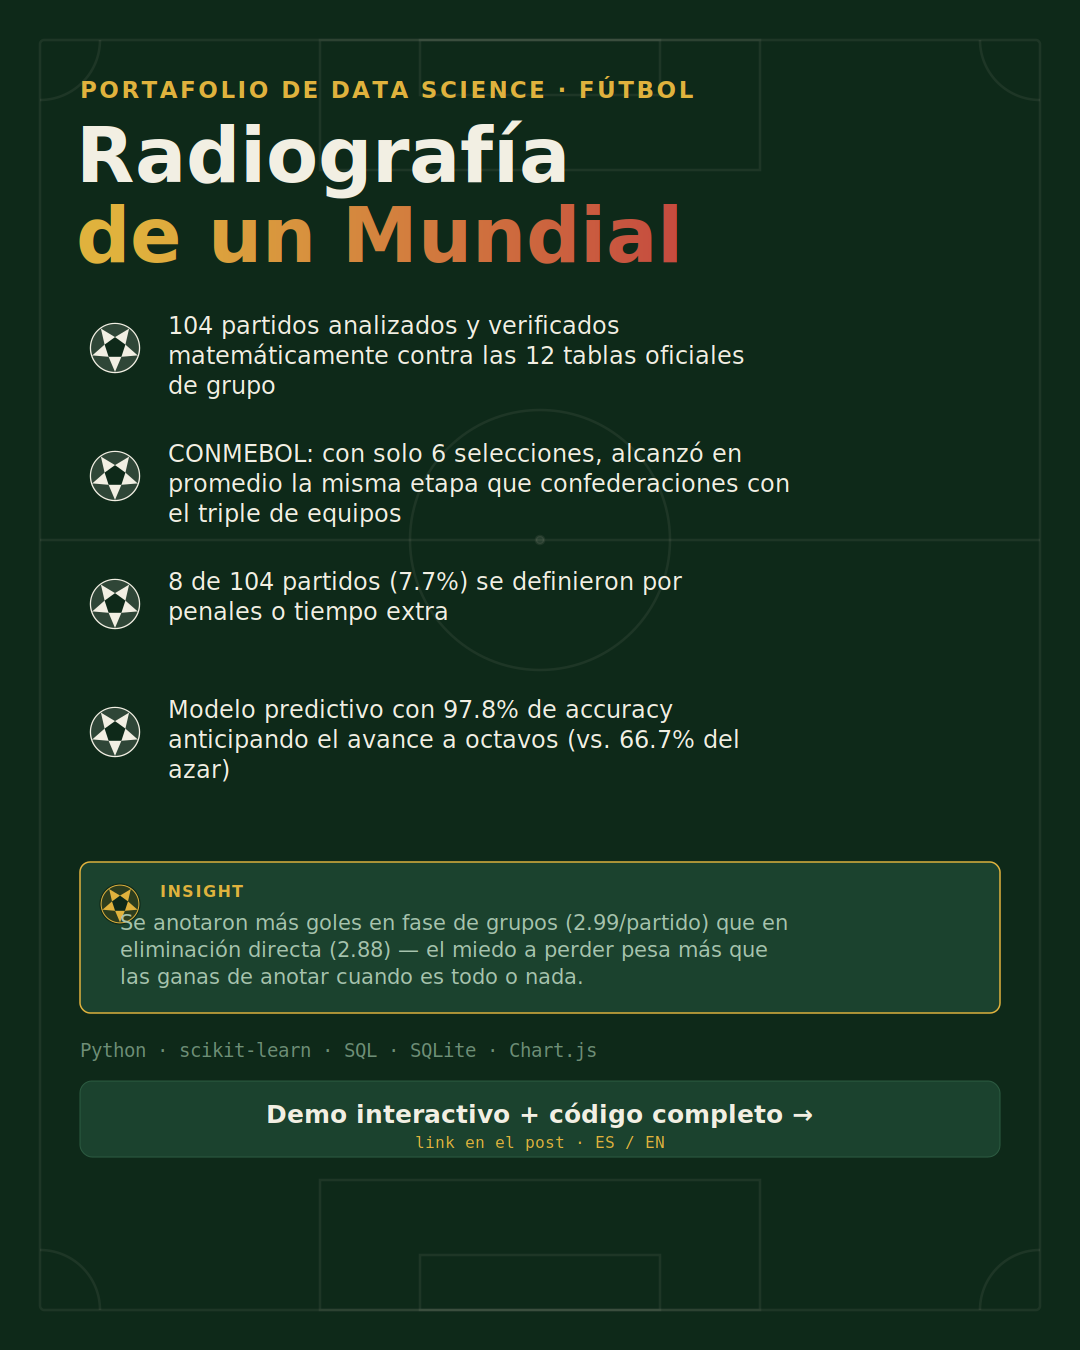
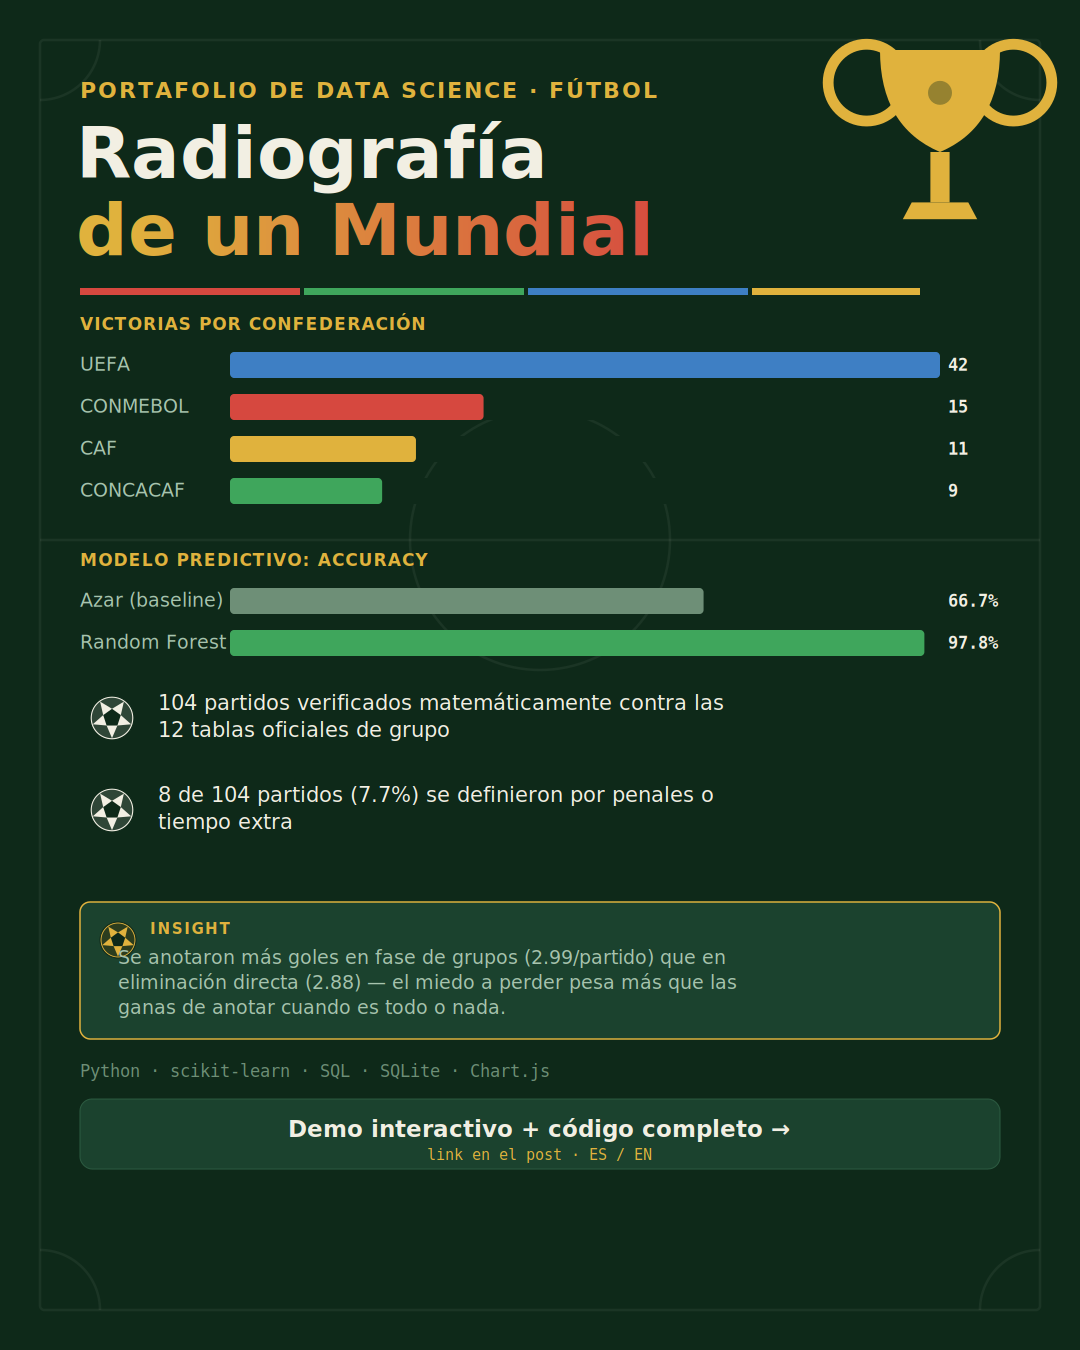
Rediseñar gráfico de LinkedIn v3: mini-gráficos de barras, ícono de trofeo genérico, paleta oficial de las 3 sedes (rojo Canadá/verde México/azul USA + dorado)

Changed region(s): [[0.0611, 0.0311, 0.9778, 0.8711], [0.8861, 0.4356, 0.9167, 0.4978]]

diff --git a/scripts/09_linkedin_card.py b/scripts/09_linkedin_card.py
@@ -1,8 +1,11 @@
 """
-Grafico de resumen para LinkedIn v2 — con tematica de futbol mas fuerte:
-- Fondo con lineas de cancha (circulo central, banda de medio campo, areas)
-- Balones de futbol (dibujados en SVG, no emoji) como vinetas de cada bullet
-- Bullets con los hallazgos reales del analisis + un insight destacado
+Grafico de resumen para LinkedIn v3:
+- Paleta oficial del torneo: rojo (Canada), verde (Mexico), azul (USA) + dorado (trofeo)
+  (verificado: la pelota oficial Adidas Trionda y el sistema de marca usan estos 3 colores
+  para representar a las 3 sedes; ver README para la fuente)
+- Icono de trofeo generico (no la copia exacta del trofeo FIFA, que es una marca registrada)
+- 2 mini-graficos de barras dibujados a mano en SVG (sin libreria de charts)
+- Bullets cortos + insight destacado
 """
 import cairosvg
 import os
@@ -10,9 +13,12 @@ import math
 import textwrap
 
 P = {
-    "bg": "#0e2919", "bg2": "#153524", "card": "#1b422e", "border": "#2c5b41",
+    "bg": "#0e2919", "card": "#153524", "card2": "#1b422e", "border": "#2c5b41",
     "text": "#F2EFE3", "text2": "#A7C4AE", "muted": "#6E8F77",
-    "gold": "#E0B23D", "red": "#C4453F", "blue": "#3E90B0", "violet": "#9B7FC4", "lime": "#9BC24A",
+    "gold": "#E0B23D",      # trofeo / emblema
+    "red": "#D6483F",       # Canada
+    "green": "#3FA65C",     # Mexico
+    "blue": "#3E7FC4",      # USA
 }
 
 def soccer_ball(cx, cy, r, fill="#F2EFE3", accent="#0e2919"):
@@ -22,37 +28,67 @@ def soccer_ball(cx, cy, r, fill="#F2EFE3", accent="#0e2919"):
         ang = math.radians(-90 + i * 72)
         pent_pts.append((cx + pent_r * math.cos(ang), cy + pent_r * math.sin(ang)))
     pent_path = "M" + " L".join(f"{x:.1f},{y:.1f}" for x, y in pent_pts) + " Z"
-
     wedges = ""
     for i in range(5):
         a1 = math.radians(-90 + i * 72 - 36)
         a2 = math.radians(-90 + i * 72 + 36)
         p1 = pent_pts[i]
-        outer1 = (cx + r * 0.92 * math.cos(a1), cy + r * 0.92 * math.sin(a1))
-        outer2 = (cx + r * 0.92 * math.cos(a2), cy + r * 0.92 * math.sin(a2))
-        wedges += (f'<path d="M{p1[0]:.1f},{p1[1]:.1f} L{outer1[0]:.1f},{outer1[1]:.1f} '
-                   f'A{r*0.92:.1f},{r*0.92:.1f} 0 0,1 {outer2[0]:.1f},{outer2[1]:.1f} Z" '
-                   f'fill="{accent}" opacity="0.85"/>')
+        o1 = (cx + r * 0.92 * math.cos(a1), cy + r * 0.92 * math.sin(a1))
+        o2 = (cx + r * 0.92 * math.cos(a2), cy + r * 0.92 * math.sin(a2))
+        wedges += (f'<path d="M{p1[0]:.1f},{p1[1]:.1f} L{o1[0]:.1f},{o1[1]:.1f} '
+                   f'A{r*0.92:.1f},{r*0.92:.1f} 0 0,1 {o2[0]:.1f},{o2[1]:.1f} Z" fill="{accent}" opacity="0.85"/>')
+    return (f'<circle cx="{cx}" cy="{cy}" r="{r}" fill="{fill}"/>{wedges}'
+            f'<path d="{pent_path}" fill="{accent}"/>'
+            f'<circle cx="{cx}" cy="{cy}" r="{r}" fill="none" stroke="{accent}" stroke-width="{r*0.06}"/>')
 
+def trophy_icon(cx, top_y, w, color):
+    """Trofeo generico (copa + asas + base) - no replica el diseno especifico
+    de la copa oficial FIFA, que esta protegido por marca registrada."""
+    bowl_w = w
+    bowl_h = w * 0.85
+    stem_w = w * 0.16
+    stem_h = w * 0.42
+    base_w = w * 0.62
+    base_h = w * 0.14
+    x0 = cx - bowl_w/2
+    y0 = top_y
+    handle_r = bowl_w * 0.32
     return f'''
-<circle cx="{cx}" cy="{cy}" r="{r}" fill="{fill}"/>
-{wedges}
-<path d="{pent_path}" fill="{accent}"/>
-<circle cx="{cx}" cy="{cy}" r="{r}" fill="none" stroke="{accent}" stroke-width="{r*0.06}"/>
+<g fill="{color}">
+  <path d="M {x0} {y0}
+           Q {x0} {y0+bowl_h*0.75} {cx} {y0+bowl_h}
+           Q {cx+bowl_w/2} {y0+bowl_h*0.75} {cx+bowl_w/2} {y0}
+           Z"/>
+  <circle cx="{x0-handle_r*0.35}" cy="{y0+bowl_h*0.32}" r="{handle_r}" fill="none" stroke="{color}" stroke-width="{w*0.09}"/>
+  <circle cx="{cx+bowl_w/2+handle_r*0.35}" cy="{y0+bowl_h*0.32}" r="{handle_r}" fill="none" stroke="{color}" stroke-width="{w*0.09}"/>
+  <rect x="{cx-stem_w/2}" y="{y0+bowl_h}" width="{stem_w}" height="{stem_h}"/>
+  <polygon points="{cx-base_w/2},{y0+bowl_h+stem_h+base_h} {cx+base_w/2},{y0+bowl_h+stem_h+base_h} {cx+base_w*0.38},{y0+bowl_h+stem_h} {cx-base_w*0.38},{y0+bowl_h+stem_h}"/>
+  <circle cx="{cx}" cy="{y0+bowl_h*0.42}" r="{bowl_w*0.1}" fill="{P['bg']}" opacity="0.35"/>
+</g>
 '''
+
+def hbar_chart(x, y, w, items, max_val, colors, value_fmt="{:.0f}"):
+    """items: [(label, value), ...] — grafico de barras horizontales dibujado a mano."""
+    bar_h = 26
+    gap = 16
+    svg = ""
+    for i, (label, val) in enumerate(items):
+        by = y + i * (bar_h + gap)
+        bar_w = max(6, (val / max_val) * (w - 210))
+        color = colors[i % len(colors)]
+        svg += f'<text x="{x}" y="{by+bar_h*0.72}" font-size="19" fill="{P["text2"]}">{label}</text>'
+        svg += f'<rect x="{x+150}" y="{by}" width="{w-150-60}" height="{bar_h}" rx="4" fill="{P["bg"]}"/>'
+        svg += f'<rect x="{x+150}" y="{by}" width="{bar_w}" height="{bar_h}" rx="4" fill="{color}"/>'
+        svg += f'<text x="{x+150+ (w-150-60) +8}" y="{by+bar_h*0.72}" font-family="DejaVu Sans Mono" font-size="17" font-weight="bold" fill="{P["text"]}">{value_fmt.format(val)}</text>'
+    return svg, y + len(items) * (bar_h + gap)
 
 def pitch_background(W, H):
     mid_y = H * 0.40
     return f'''
-<g stroke="rgba(242,239,227,0.07)" stroke-width="2.5" fill="none">
+<g stroke="rgba(242,239,227,0.06)" stroke-width="2.5" fill="none">
   <rect x="40" y="40" width="{W-80}" height="{H-80}" rx="4"/>
   <line x1="40" y1="{mid_y}" x2="{W-40}" y2="{mid_y}"/>
   <circle cx="{W/2}" cy="{mid_y}" r="130"/>
-  <circle cx="{W/2}" cy="{mid_y}" r="4" fill="rgba(242,239,227,0.10)"/>
-  <rect x="{W/2-220}" y="40" width="440" height="130"/>
-  <rect x="{W/2-120}" y="40" width="240" height="55"/>
-  <rect x="{W/2-220}" y="{H-170}" width="440" height="130"/>
-  <rect x="{W/2-120}" y="{H-95}" width="240" height="55"/>
   <path d="M 40 100 A 60 60 0 0 0 100 40"/>
   <path d="M {W-100} 40 A 60 60 0 0 0 {W-40} 100"/>
   <path d="M 40 {H-100} A 60 60 0 0 1 100 {H-40}"/>
@@ -64,11 +100,13 @@ def build_svg(lang):
     if lang == "es":
         title1, title2 = "Radiografía", "de un Mundial"
         subtitle = "PORTAFOLIO DE DATA SCIENCE · FÚTBOL"
+        chart1_title = "VICTORIAS POR CONFEDERACIÓN"
+        chart1_items = [("UEFA", 42), ("CONMEBOL", 15), ("CAF", 11), ("CONCACAF", 9)]
+        chart2_title = "MODELO PREDICTIVO: ACCURACY"
+        chart2_items = [("Azar (baseline)", 66.7), ("Random Forest", 97.8)]
         bullets = [
-            "104 partidos analizados y verificados matemáticamente contra las 12 tablas oficiales de grupo",
-            "CONMEBOL: con solo 6 selecciones, alcanzó en promedio la misma etapa que confederaciones con el triple de equipos",
+            "104 partidos verificados matemáticamente contra las 12 tablas oficiales de grupo",
             "8 de 104 partidos (7.7%) se definieron por penales o tiempo extra",
-            "Modelo predictivo con 97.8% de accuracy anticipando el avance a octavos (vs. 66.7% del azar)",
         ]
         insight_label = "INSIGHT"
         insight_text = "Se anotaron más goles en fase de grupos (2.99/partido) que en eliminación directa (2.88) — el miedo a perder pesa más que las ganas de anotar cuando es todo o nada."
@@ -77,11 +115,13 @@ def build_svg(lang):
     else:
         title1, title2 = "Anatomy of", "a World Cup"
         subtitle = "DATA SCIENCE PORTFOLIO · SOCCER"
+        chart1_title = "WINS BY CONFEDERATION"
+        chart1_items = [("UEFA", 42), ("CONMEBOL", 15), ("CAF", 11), ("CONCACAF", 9)]
+        chart2_title = "PREDICTIVE MODEL: ACCURACY"
+        chart2_items = [("Random baseline", 66.7), ("Random Forest", 97.8)]
         bullets = [
-            "104 matches analyzed and mathematically verified against the 12 official group tables",
-            "CONMEBOL: with only 6 teams, reached the same average stage as confederations with three times as many",
+            "104 matches mathematically verified against the 12 official group tables",
             "8 of 104 matches (7.7%) were decided by penalties or extra time",
-            "Predictive model with 97.8% accuracy forecasting advancement to the round of 16 (vs. 66.7% baseline)",
         ]
         insight_label = "INSIGHT"
         insight_text = "More goals were scored in the group stage (2.99/match) than in the knockout stage (2.88) — fear of losing outweighs the drive to score when it's win-or-go-home."
@@ -98,47 +138,67 @@ def build_svg(lang):
 </defs>
 <rect width="{W}" height="{H}" fill="{P['bg']}"/>
 {pitch_background(W, H)}
+{trophy_icon(W-140, 50, 120, P['gold'])}
 
-<text x="80" y="98" font-size="23" font-weight="bold" letter-spacing="2.2" fill="{P['gold']}">{subtitle}</text>
-<text x="76" y="182" font-size="76" font-weight="bold" fill="{P['text']}">{title1}</text>
-<text x="76" y="262" font-size="76" font-weight="bold" fill="url(#titleGrad)">{title2}</text>
+<text x="80" y="98" font-size="22" font-weight="bold" letter-spacing="2" fill="{P['gold']}">{subtitle}</text>
+<text x="76" y="178" font-size="72" font-weight="bold" fill="{P['text']}">{title1}</text>
+<text x="76" y="255" font-size="72" font-weight="bold" fill="url(#titleGrad)">{title2}</text>
+
+<!-- franja de color de las 3 sedes + dorado del trofeo -->
+<rect x="80" y="288" width="220" height="7" fill="{P['red']}"/>
+<rect x="304" y="288" width="220" height="7" fill="{P['green']}"/>
+<rect x="528" y="288" width="220" height="7" fill="{P['blue']}"/>
+<rect x="752" y="288" width="168" height="7" fill="{P['gold']}"/>
 '''
 
-    by0 = 340
-    row_h = 128
+    # --- chart 1: confederaciones ---
+    chart_y = 330
+    svg += f'<text x="80" y="{chart_y}" font-size="17" font-weight="bold" letter-spacing="1.2" fill="{P["gold"]}">{chart1_title}</text>'
+    bars_svg, chart1_end = hbar_chart(80, chart_y+22, W-160, chart1_items, 42, [P['blue'],P['red'],P['gold'],P['green']])
+    svg += bars_svg
+
+    # --- chart 2: accuracy modelo ---
+    chart2_y = chart1_end + 46
+    svg += f'<text x="80" y="{chart2_y}" font-size="17" font-weight="bold" letter-spacing="1.2" fill="{P["gold"]}">{chart2_title}</text>'
+    bars_svg2, chart2_end = hbar_chart(80, chart2_y+22, W-160, chart2_items, 100, [P['muted'],P['green']], value_fmt="{:.1f}%")
+    svg += bars_svg2
+
+    # --- bullets ---
+    by0 = chart2_end + 40
+    row_h = 92
     for i, bullet in enumerate(bullets):
         by = by0 + i * row_h
-        svg += soccer_ball(115, by + 8, 26)
-        wrapped = textwrap.wrap(bullet, width=48)
-        lines_svg = "".join(f'<tspan x="168" dy="{0 if j==0 else 30}">{ln}</tspan>' for j, ln in enumerate(wrapped))
-        svg += f'<text x="168" y="{by-6}" font-size="24" fill="{P["text"]}">{lines_svg}</text>\n'
+        svg += soccer_ball(112, by + 6, 22)
+        wrapped = textwrap.wrap(bullet, width=52)
+        lines_svg = "".join(f'<tspan x="158" dy="{0 if j==0 else 27}">{ln}</tspan>' for j, ln in enumerate(wrapped))
+        svg += f'<text x="158" y="{by-2}" font-size="21" fill="{P["text"]}">{lines_svg}</text>'
 
-    insight_y = by0 + len(bullets) * row_h + 10
-    insight_wrapped = textwrap.wrap(insight_text, width=62)
-    insight_h = 70 + len(insight_wrapped) * 27
-    insight_lines_svg = "".join(
-        f'<tspan x="120" dy="{0 if j==0 else 27}">{ln}</tspan>' for j, ln in enumerate(insight_wrapped))
+    # --- insight ---
+    insight_y = by0 + len(bullets) * row_h + 6
+    insight_wrapped = textwrap.wrap(insight_text, width=64)
+    insight_h = 62 + len(insight_wrapped) * 25
+    insight_lines = "".join(f'<tspan x="118" dy="{0 if j==0 else 25}">{ln}</tspan>' for j, ln in enumerate(insight_wrapped))
     svg += f'''
-<rect x="80" y="{insight_y}" width="{W-160}" height="{insight_h}" rx="10" fill="{P['card']}" stroke="{P['gold']}" stroke-width="1.5"/>
-{soccer_ball(120, insight_y+42, 20, fill=P['gold'], accent=P['bg'])}
-<text x="160" y="{insight_y+35}" font-size="16" font-weight="bold" letter-spacing="1.5" fill="{P['gold']}">{insight_label}</text>
-<text x="120" y="{insight_y+68}" font-size="21" fill="{P['text2']}">{insight_lines_svg}</text>
+<rect x="80" y="{insight_y}" width="{W-160}" height="{insight_h}" rx="10" fill="{P['card2']}" stroke="{P['gold']}" stroke-width="1.5"/>
+{soccer_ball(118, insight_y+38, 18, fill=P['gold'], accent=P['bg'])}
+<text x="150" y="{insight_y+32}" font-size="15" font-weight="bold" letter-spacing="1.4" fill="{P['gold']}">{insight_label}</text>
+<text x="118" y="{insight_y+62}" font-size="19" fill="{P['text2']}">{insight_lines}</text>
 '''
 
-    footer_y = insight_y + insight_h + 26
+    footer_y = insight_y + insight_h + 22
     svg += f'''
-<text x="80" y="{footer_y+18}" font-family="DejaVu Sans Mono" font-size="19" fill="{P['muted']}">Python · scikit-learn · SQL · SQLite · Chart.js</text>
-<rect x="80" y="{footer_y+42}" width="{W-160}" height="76" rx="12" fill="{P['card']}" stroke="{P['border']}"/>
-<text x="{W/2}" y="{footer_y+84}" font-size="25" font-weight="bold" fill="{P['text']}" text-anchor="middle">{cta}</text>
-<text x="{W/2}" y="{footer_y+109}" font-family="DejaVu Sans Mono" font-size="16" fill="{P['gold']}" text-anchor="middle">{cta2}</text>
+<text x="80" y="{footer_y+16}" font-family="DejaVu Sans Mono" font-size="17" fill="{P['muted']}">Python · scikit-learn · SQL · SQLite · Chart.js</text>
+<rect x="80" y="{footer_y+38}" width="{W-160}" height="70" rx="12" fill="{P['card2']}" stroke="{P['border']}"/>
+<text x="{W/2}" y="{footer_y+76}" font-size="23" font-weight="bold" fill="{P['text']}" text-anchor="middle">{cta}</text>
+<text x="{W/2}" y="{footer_y+99}" font-family="DejaVu Sans Mono" font-size="15" fill="{P['gold']}" text-anchor="middle">{cta2}</text>
 </svg>'''
-    return svg, footer_y + 42 + 76
+    return svg, footer_y + 38 + 70
 
 OUT = "/home/claude/worldcup_portfolio/assets_linkedin"
 os.makedirs(OUT, exist_ok=True)
 for lang in ["es", "en"]:
     svg_code, bottom = build_svg(lang)
-    print(f"{lang}: contenido termina en y={bottom} (canvas=1350)")
+    print(f"{lang}: contenido termina en y={bottom:.0f} (canvas=1350)")
     svg_path = f"{OUT}/linkedin_card_{lang}.svg"
     png_path = f"{OUT}/linkedin_card_{lang}.png"
     open(svg_path, "w", encoding="utf-8").write(svg_code)
